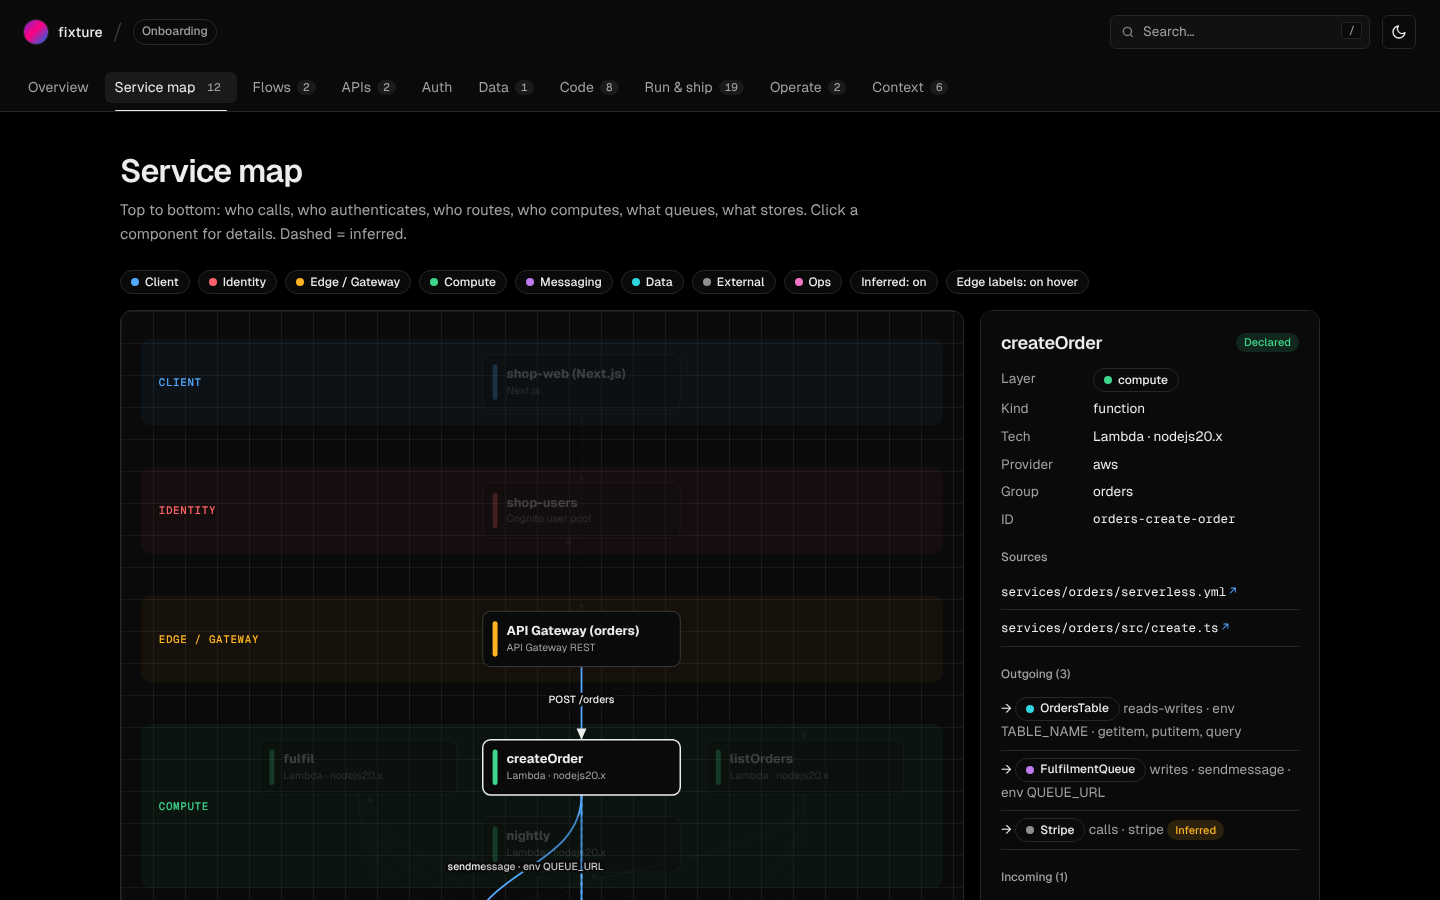
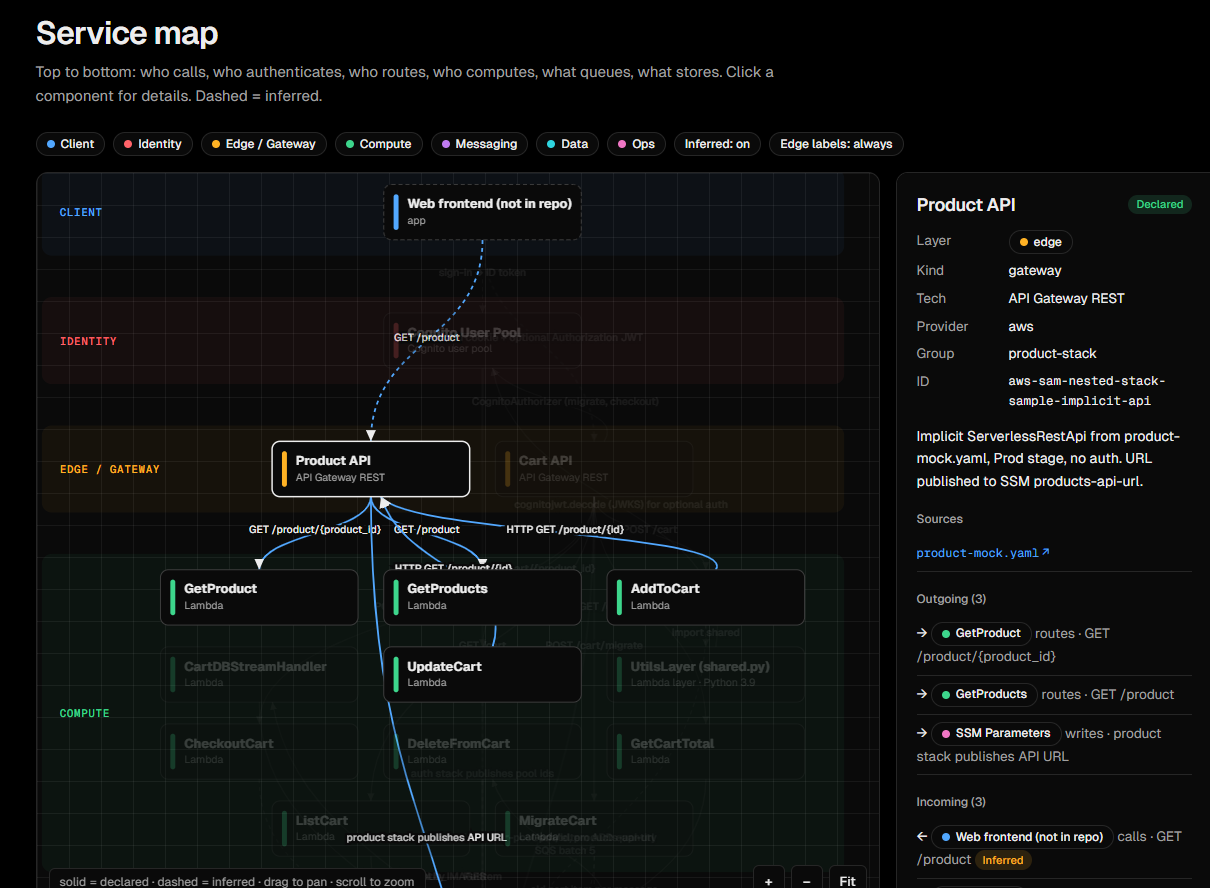
Add demo GIF and real service map screenshot to README
- docs/demo.gif: walkthrough of an atlas generated for
  aws-samples/aws-sam-nested-stack-sample (overview, map, flows, APIs)
- docs/preview-map.png: service map screenshot from the same repo
- Remove the old synthetic overview screenshot

diff --git a/README.md b/README.md
@@ -4,7 +4,7 @@ A Claude skill that turns any codebase into an interactive onboarding map: servi
 
 New to a project? Ask Claude *"I'm new to this repo. Map how it fits together."* and get `docs/onboarding/atlas.html`: a page you can open in any browser, commit, and share with the next new teammate.
 
-![Overview](docs/preview-overview.png)
+![codebase-onboarding demo: overview, service map, flows and API catalog](docs/demo.gif)
 
 ## What you get
 
@@ -23,7 +23,7 @@ New to a project? Ask Claude *"I'm new to this repo. Map how it fits together."*
 
 Every component and connection is marked **declared** (found in config or code) or **inferred** (Claude's reasoned guess, drawn dashed). Anything the repo can't answer becomes an open question instead of a made-up fact.
 
-![Service map](docs/preview-map.png)
+![Service map of the aws-sam-nested-stack-sample repo](docs/preview-map.png)
 
 ## Works with
 
